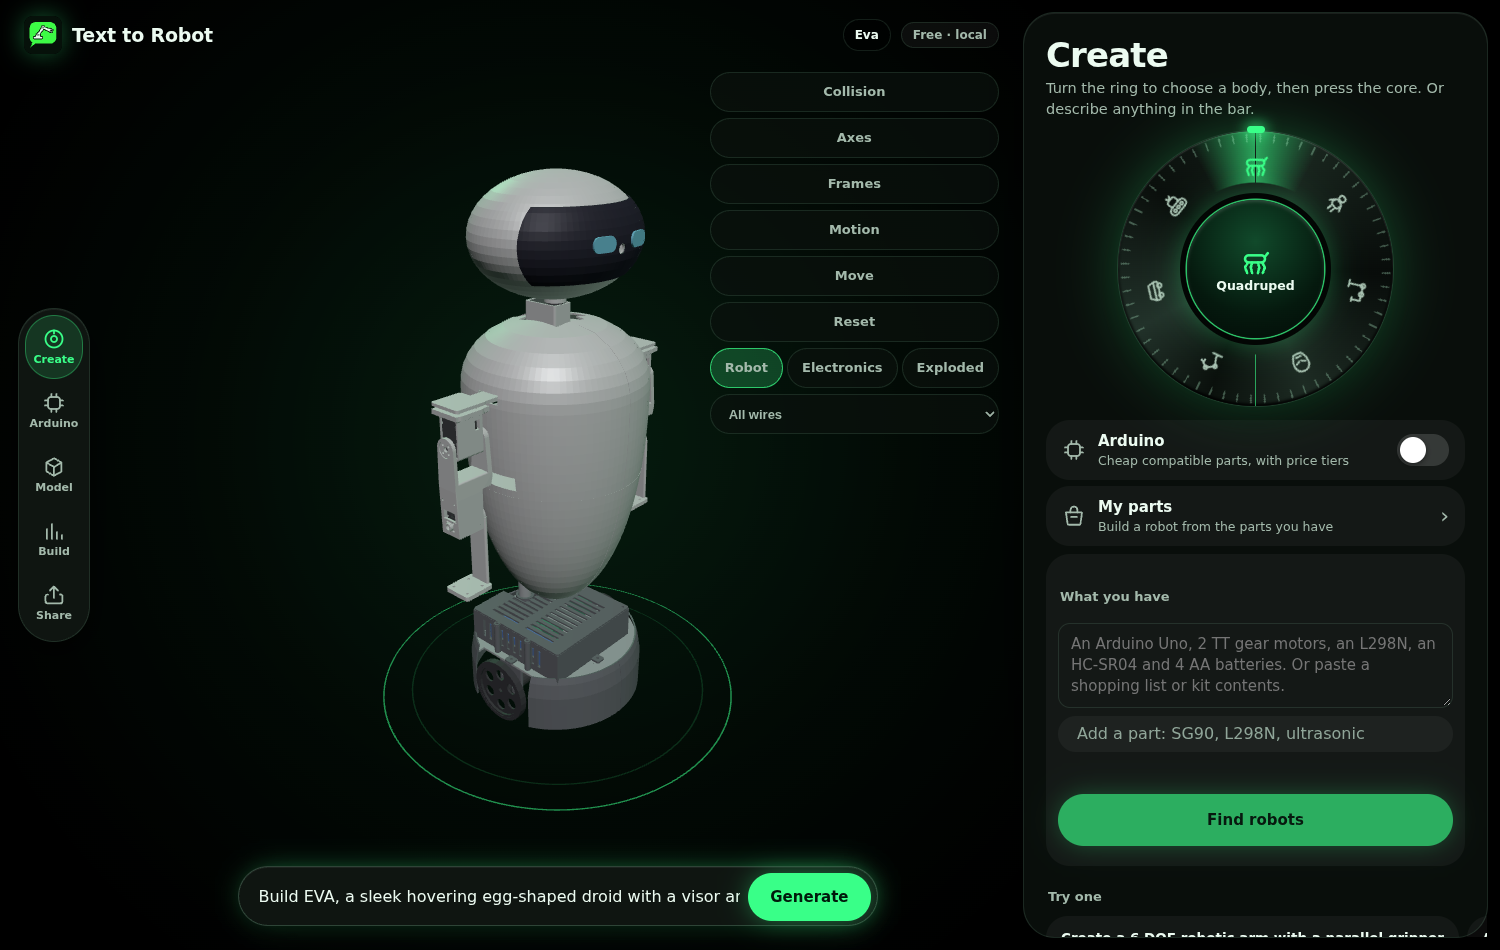
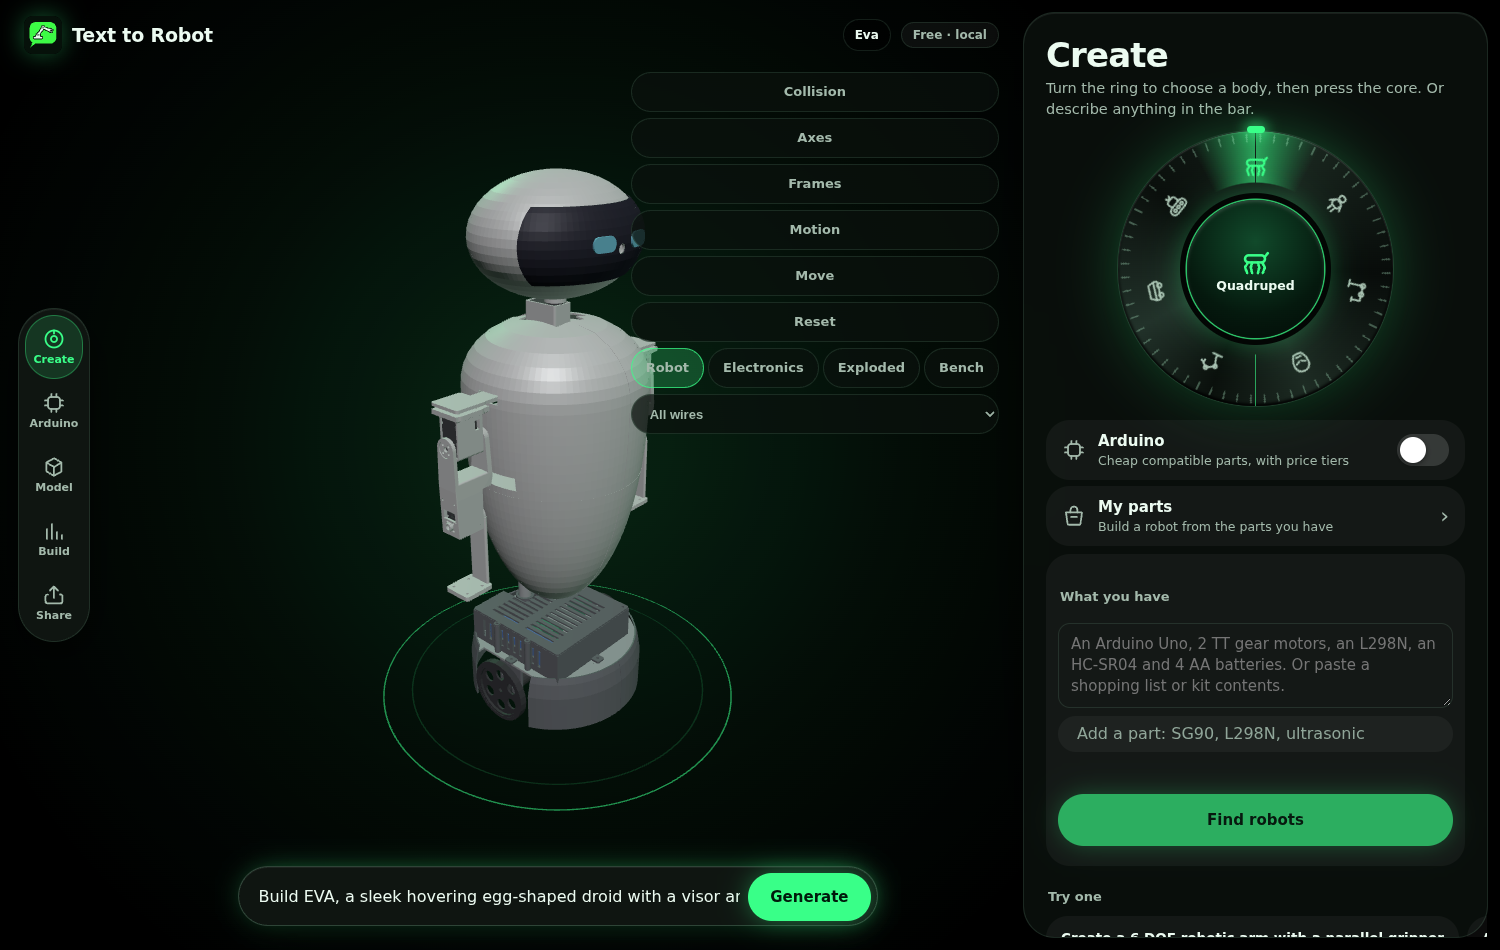
Bench view in the 3D viewer: a Bench button beside Robot, Electronics and Exploded shows the robot's electronics on the desk from the engine's bench(), with the rail filter, and the camera goes back to the robot after; screenshots and source hashes refreshed with check_web --update-docs

diff --git a/apps/web/public/app.js b/apps/web/public/app.js
@@ -272,24 +272,53 @@ renderer.domElement.addEventListener("pointerup", (e) => {
 // ---------------- electronics and harness in 3D ----------------
 // the engine's electronics3d answer for this robot, drawn on the robot's links; Robot keeps it hidden
 let electronics = null, electronicsFor = null, viewMode = "robot", focusedNet = null;
+// the Bench view: the same electronics laid out on a desk (the engine's bench answer), in a group of its own
+let robotElectronics = null, benchElectronics = null, benchFor = null;
+const benchRoot = new THREE.Group(); benchRoot.visible = false; scene.add(benchRoot);
+function fillRails(data) {
+  const sel = $("#railFilter"); sel.replaceChildren(el("option", "", "All wires")); sel.options[0].value = "all";
+  for (const r of data.rails) { const o = el("option", "", `${r.name} ${+r.voltage_v.toFixed(2)} V`); o.value = r.name; sel.append(o); }
+  for (const [v, t] of [["signal", "Signals and buses"], ["ground", "Ground"]]) { const o = el("option", "", t); o.value = v; sel.append(o); }
+}
 async function setViewMode(m) {
-  viewMode = m;
+  const was = viewMode; viewMode = m;
   for (const b of document.querySelectorAll(".viewmode")) { const on = b.dataset.mode === m; b.classList.toggle("active", on); b.setAttribute("aria-pressed", String(on)); }
-  if (m !== "robot" && state.robot && electronicsFor !== state.robot) {
-    const robot = state.robot;
+  const robot = state.robot;
+  if (m === "bench") {
+    if (robot && benchFor !== robot) {
+      try {
+        const data = await api("/api/engine/bench", { robot });
+        if (robot !== state.robot || viewMode !== "bench") return;
+        benchElectronics?.dispose(); benchRoot.clear();
+        const desk = new THREE.Group(), d = data.desk, w = (d.max[0] - d.min[0]) / 1000, h = (d.max[1] - d.min[1]) / 1000;
+        const top = new THREE.Mesh(new THREE.BoxGeometry(w, h, 0.018), new THREE.MeshStandardMaterial({ color: 0x3a2f24, roughness: 0.85 }));
+        top.position.set((d.min[0] + d.max[0]) / 2000, (d.min[1] + d.max[1]) / 2000, -0.009); benchRoot.add(top, desk);
+        benchElectronics = createElectronics(THREE, { root: benchRoot, links: new Map([["desk", desk]]), data, robotMeshes: () => new Map() }); benchFor = robot;
+      } catch (e) { toast(`Bench view: ${e.message}`, "err"); return; }
+    }
+    robotElectronics?.setMode("robot"); robotGroup.visible = false; pad.visible = false; benchRoot.visible = true;
+    electronics = benchElectronics; if (!electronics) return;
+    fillRails(electronics.data); electronics.setMode("electronics"); electronics.highlight(focusedNet);
+    $("#railFilter").hidden = false;
+    if (!electronics.framed) { electronics.framed = true; frameOn(electronics.bounds()); }
+    invalidate(); return;
+  }
+  benchRoot.visible = false; robotGroup.visible = true; pad.visible = true; benchElectronics?.setMode("robot");
+  if (m !== "robot" && robot && electronicsFor !== robot) {
     try {
       const data = await api("/api/engine/electronics3d", { robot });
       if (robot !== state.robot) return;
-      electronics?.dispose(); electronics = createElectronics(THREE, { root: robotGroup, links: state.meshes, data, robotMeshes: () => state.meshes }); electronicsFor = robot;
-      const sel = $("#railFilter"); sel.replaceChildren(el("option", "", "All wires")); sel.options[0].value = "all";
-      for (const r of data.rails) { const o = el("option", "", `${r.name} ${+r.voltage_v.toFixed(2)} V`); o.value = r.name; sel.append(o); }
-      for (const [v, t] of [["signal", "Signals and buses"], ["ground", "Ground"]]) { const o = el("option", "", t); o.value = v; sel.append(o); }
+      robotElectronics?.dispose(); robotElectronics = createElectronics(THREE, { root: robotGroup, links: state.meshes, data, robotMeshes: () => state.meshes }); electronicsFor = robot;
     } catch (e) { toast(`Electronics view: ${e.message}`, "err"); return; }
   }
+  electronics = robotElectronics;
+  if (electronics) fillRails(electronics.data);
   $("#railFilter").hidden = m === "robot" || !electronics;
-  electronics?.setMode(m); electronics?.update(true);
+  electronics?.setMode(m); electronics?.update(true); electronics?.highlight(focusedNet);
   // the first time the electronics show for this robot, the camera moves in on them
   if (m !== "robot" && electronics && !electronics.framed) { electronics.framed = true; frameOn(electronics.bounds()); }
+  // back from the desk: the camera goes back to the robot
+  if (was === "bench") { if (m === "robot") frameRobot(); else if (electronics) frameOn(electronics.bounds()); }
   invalidate();
 }
 function frameOn(box) {
@@ -310,7 +339,7 @@ async function openSim() {
   sim = await createSim({ THREE, scene, robotGroup, state, updateFK, invalidate, api, el, box: $("#simPanel"), frameOn: (b) => { const inv = new THREE.Matrix4().copy(robotGroup.matrixWorld).invert(); frameOn(b.clone().applyMatrix4(inv)); } });
 }
 function resetSim() { sim?.dispose(); sim = null; simFor = null; if ($("#tab-run").classList.contains("active")) openSim(); }
-function resetElectronics() { electronics?.dispose(); electronics = null; electronicsFor = null; focusedNet = null; if (viewMode !== "robot") setViewMode(viewMode); }
+function resetElectronics() { robotElectronics?.dispose(); benchElectronics?.dispose(); benchRoot.clear(); robotElectronics = benchElectronics = electronics = null; electronicsFor = benchFor = null; focusedNet = null; if (viewMode !== "robot") setViewMode(viewMode); }
 // hover: what the wire or pin under the pointer carries
 renderer.domElement.addEventListener("pointermove", (e) => {
   const tip = $("#wireTip");

diff --git a/apps/web/public/index.html b/apps/web/public/index.html
@@ -82,6 +82,7 @@
     <button class="chip viewmode active" data-mode="robot" type="button" aria-pressed="true">Robot</button>
     <button class="chip viewmode" data-mode="electronics" type="button" aria-pressed="false">Electronics</button>
     <button class="chip viewmode" data-mode="exploded" type="button" aria-pressed="false">Exploded</button>
+    <button class="chip viewmode" data-mode="bench" type="button" aria-pressed="false">Bench</button>
   </span>
   <select id="railFilter" class="chip" aria-label="Show wires of" hidden><option value="all">All wires</option></select>
 </div>

diff --git a/CHANGELOG.md b/CHANGELOG.md
@@ -13,6 +13,7 @@ All notable changes to Text to Robot. Versions follow [Semantic Versioning](http
 - Battery life by simulation: the pack run down from full in 2 % steps with the harness solved at each, until the first error or empty. The Arduino car lasts about 1.1 h at typical load and stops when the Nano's VIN falls under 7 V with 24 % left in its 2S pack.
 - Website: a **Power** view in the Circuit tab (scenario, state of charge, faults, what trips, rails, busiest wires, a plot over time, battery life with its curve), and the 3D Electronics view's hover shows the simulated current in a wire and the voltage at a pin after a run. `scripts/check_power.py` tests it in the browser against the engine's own numbers.
 - Engine API 1.3: `electricalSim(robot, options)` and `batteryLife(robot, options)`; nothing existing changed.
+- A **Bench** view in the 3D viewer: the robot's electronics laid out on a desk as you would wire them up before building it in, sensors, controller, drivers, motors and servos in columns, the power parts in front, a board with a downward header in a breadboard, and every wire of the wiring record drawn pin to pin through its real connector, over the parts between it and its far end. A test checks every example: every wire is there and ends on its pins, none passes through a part and no two parts overlap. Engine API 1.4: `bench(robot)`; nothing existing changed.
 - Run the firmware in the browser. The website's new **Run** tab runs a robot's compiled Arduino sketch on a virtual ATmega328P (avr8js) and the 3D model follows its pins: the motors from the driver inputs and the measured PWM duty, servos from their pulses (on board pins or through an emulated PCA9685), an HC-SR04 whose echo is timed from the distance the sensor sees in a small arena, and a serial monitor. The Arduino car drives, sees a wall, stops, backs off and turns; the Arduino arm runs its pose sequence; WALL-E drives and moves its servos; the robot hand swings its thumb. The shipped programs are the examples' sketches compiled with arduino-cli, matched by the sketch's SHA-256; for any other sketch the page says it cannot compile it and runs a `.hex` you load. See [docs/FIRMWARE.md](docs/FIRMWARE.md#run-it-in-the-browser).
 - Build from my parts. Say what you have ("I have an Arduino Uno, 2 TT gear motors, an L298N ...", a pasted shopping list, a kit by name, Hinglish), or pick parts with counts in the new **My parts** panel of the Create pane. The parser reads counts ("2x", "pack of 4", "a pair of"), model names in any spelling, loose names ("small yellow motors", "a cheap ultrasonic sensor"), typos and AA or 18650 cells; nothing it cannot place is dropped (not recognised, with suggestions). The robots the list can build are ranked by how much of it each uses and how little it needs on top; the top three are cards with a thumbnail. The chosen one is designed with those exact parts: "you have it" / "to buy" on every parts list line, "What you still need to buy" with links and a total, wiring and power from the user's board, driver and battery, and honesty notes with numbers when they cannot do it safely (AA sag at stall, the L298N's 2 V drop, a USB port's 0.5 A).
 - New designers for it: a car laid out for any board (Arduino Uno, Nano, Mega, ESP32, ESP32-CAM, Raspberry Pi 4, 5, Zero 2 W), driver (L298N, TB6612FNG, DRV8833, L9110S), battery and sensors (ultrasonic, ToF, a scanning servo head, IR line sensors, IR obstacle sensors, a Pi camera, Bluetooth, IMU, buzzer); an ultrasonic radar scanner; an eight-servo walker. The Arduino desk arm takes the user's servos, board, servo driver (or none) and battery.
